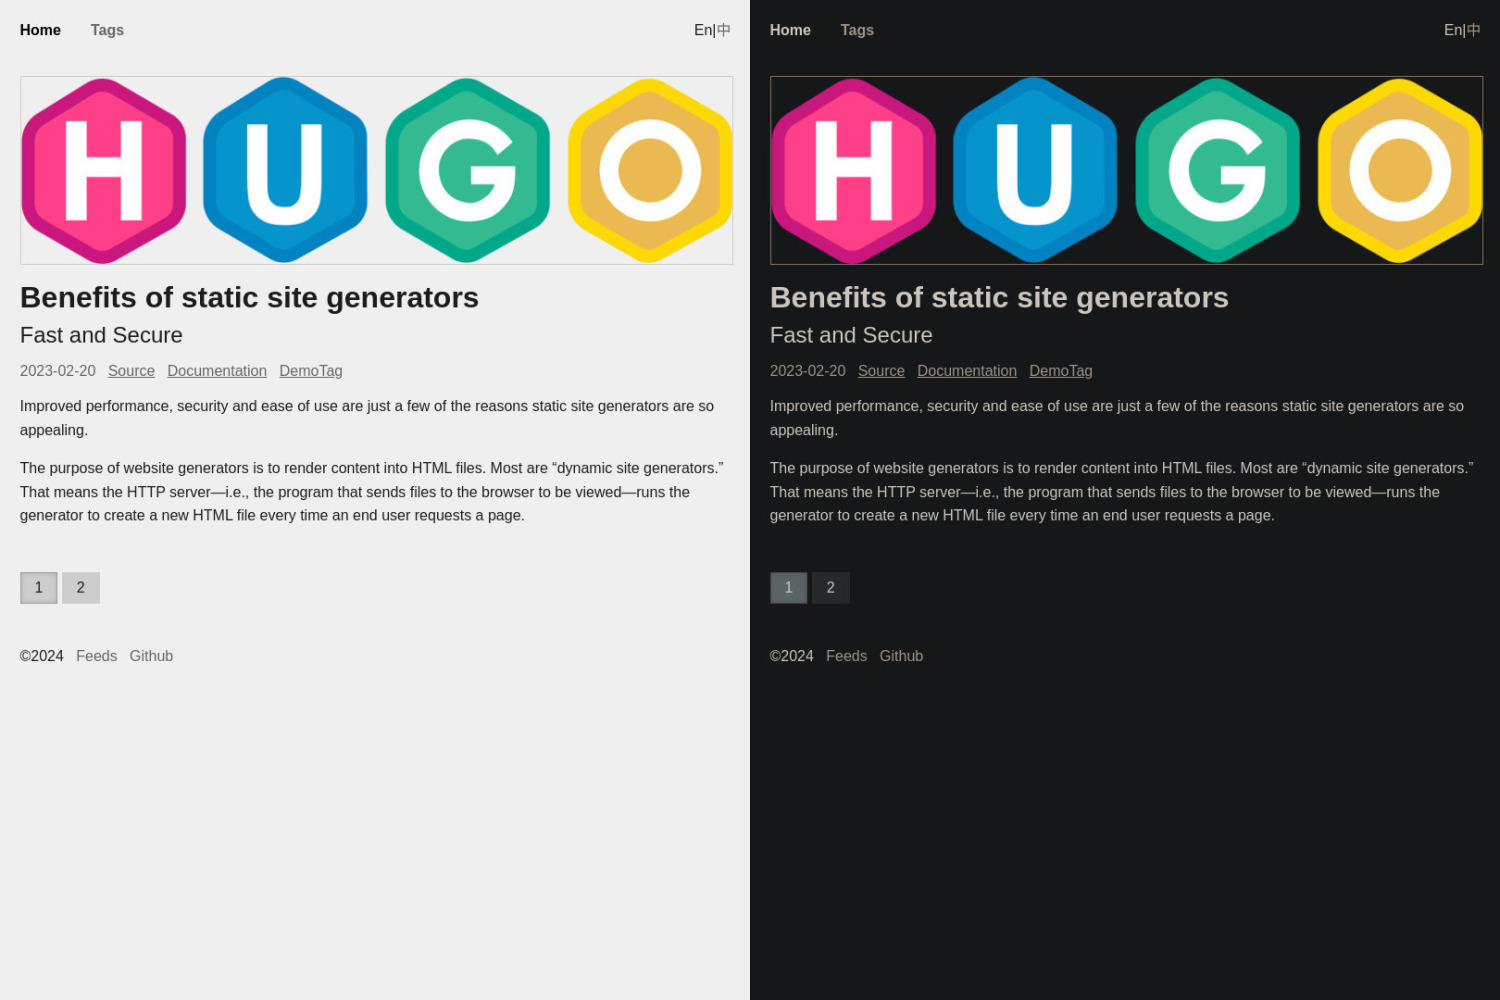
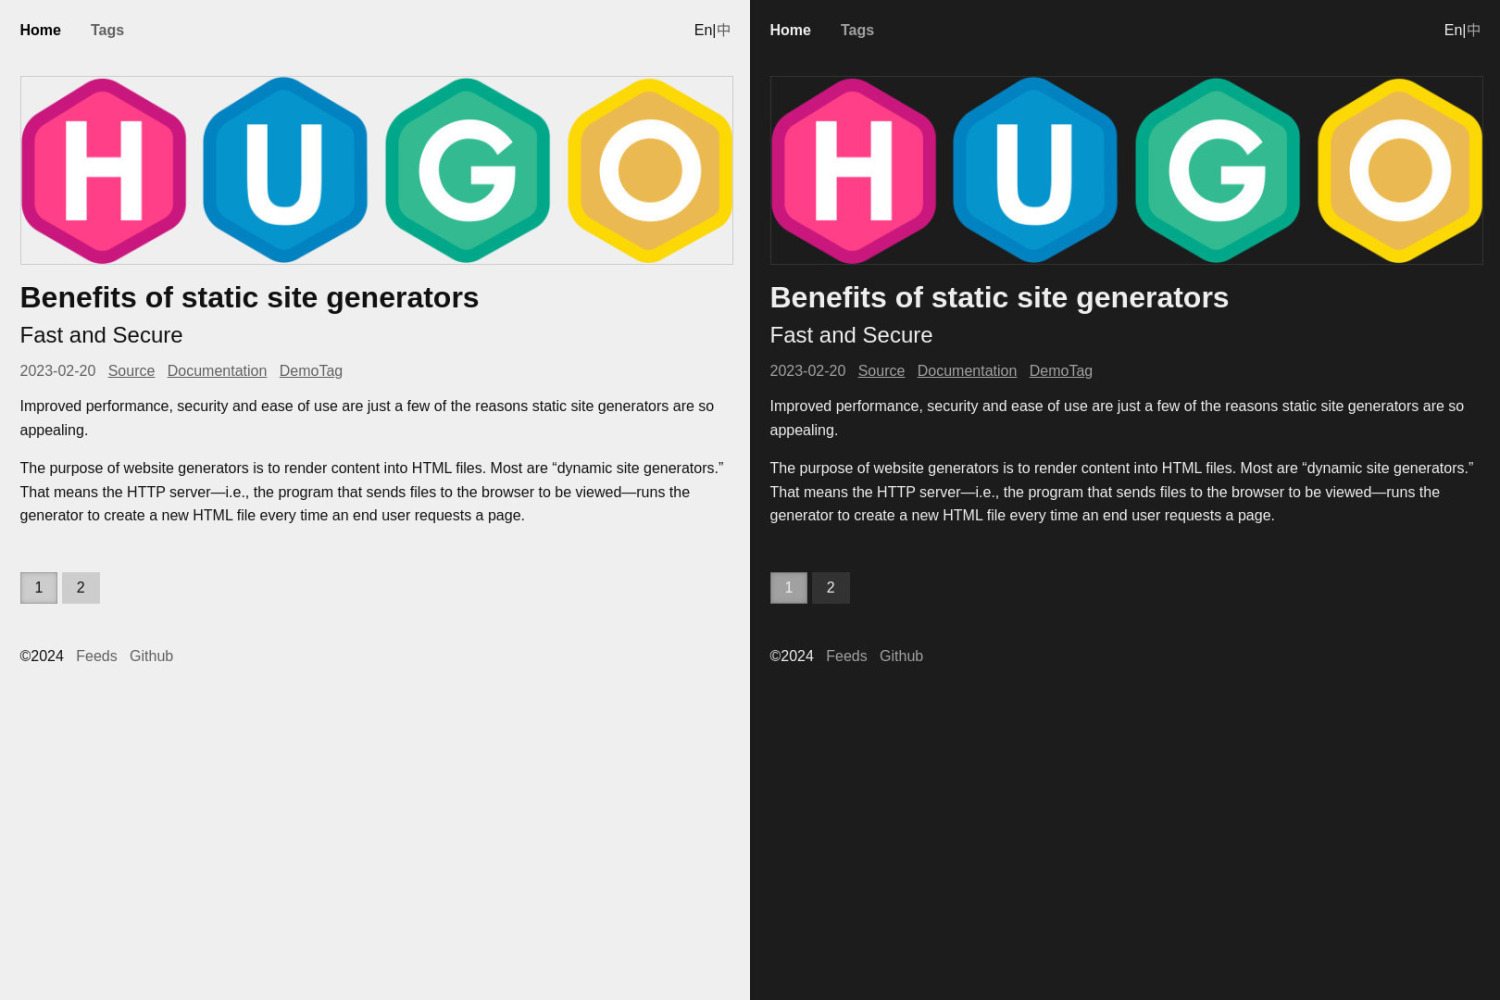
Increase high contrast

diff --git a/assets/main.css b/assets/main.css
@@ -7,13 +7,13 @@
 
     --background-light: #efefef;
     --background-pre-light: #cdcdcd;
-    --color-light: #1c1c1c;
-    --color-secondary-light: #656565;
+    --color-light: #111;
+    --color-secondary-light: #606060;
 
     --background-dark: #1c1c1c;
     --background-pre-dark: #323232;
-    --color-dark: #d0d0d0;
-    --color-secondary-dark: #878787;
+    --color-dark: #eee;
+    --color-secondary-dark: #a1a1a1;
 }
 
 html { overflow-y: scroll; }
